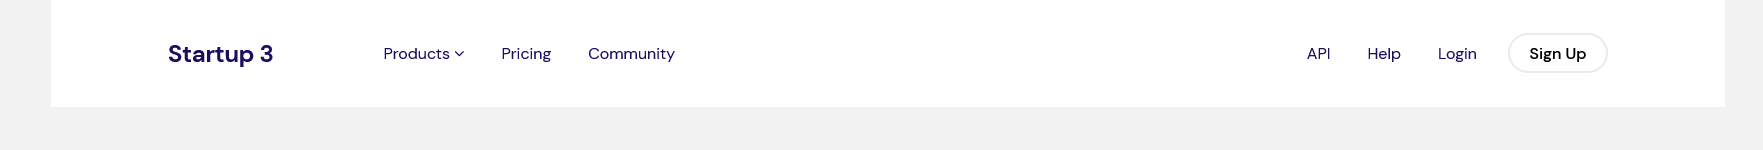
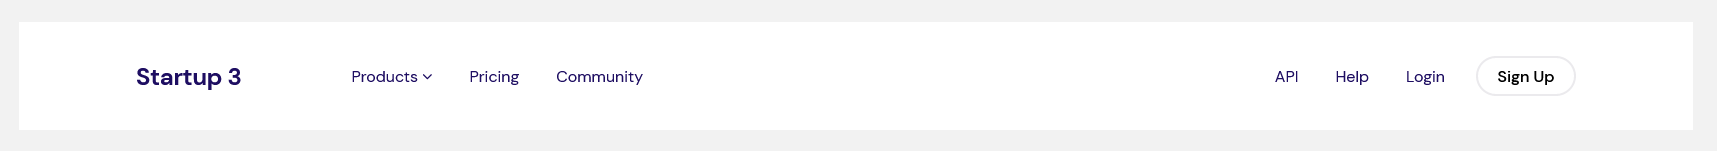
Edit files

diff --git a/08.nav-bars/02.navBar-style02/style.css b/08.nav-bars/02.navBar-style02/style.css
@@ -14,7 +14,7 @@ body {
     max-width: 1440px;
     background-color: #fff;
     padding: 34px 117px;
-    margin: 0 auto;
+    margin: 150px auto;
 }
 
 .navigation {
